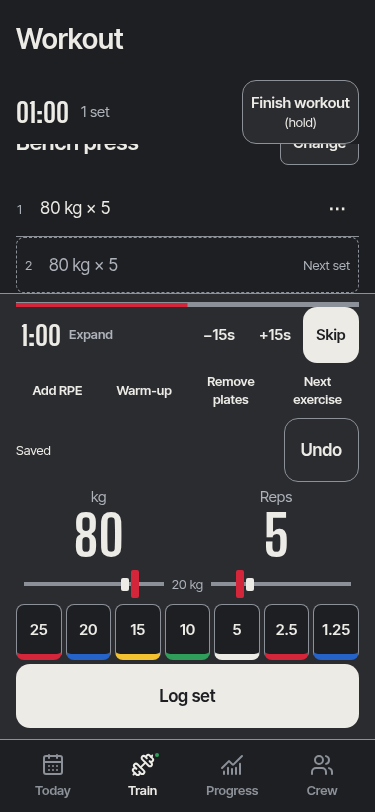
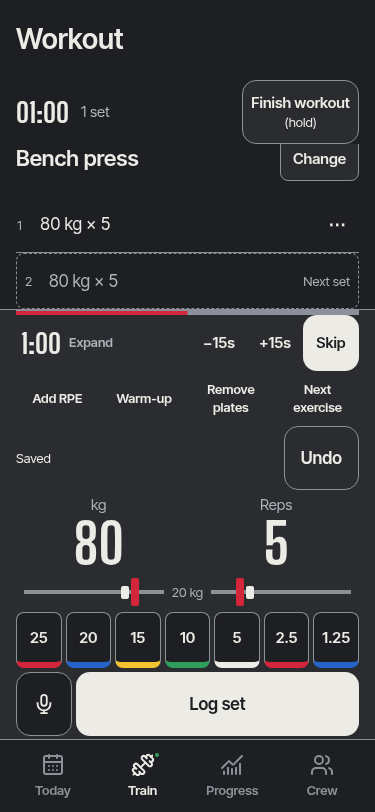
Y4: preserve accessible rest collapse and keep set rows reachable

diff --git a/src/features/timer/RestTimerOverlay.tsx b/src/features/timer/RestTimerOverlay.tsx
@@ -119,7 +119,7 @@ export function RestTimerOverlay({ reduceMotion, onSkipHold, nextSet }: {
     if (!current || current.id !== event.pointerId) return;
     const delta = current.last - current.y;
     if (!open && delta <= -40) { swiped.current = true; expand(); }
-    else if (open && delta >= 80) close();
+    else if (open && delta >= 80) { swiped.current = true; close(); }
   };
 
   if (state.phase === 'idle' && !asleep) return null;
@@ -139,8 +139,8 @@ export function RestTimerOverlay({ reduceMotion, onSkipHold, nextSet }: {
           aria-label={fill(copy.x4TimerAction, { time: state.label, action: copy.x4TimerExpand })}
           aria-expanded={open} aria-haspopup="dialog" onPointerDown={begin} onPointerMove={move} onPointerUp={end}
           onPointerCancel={() => { swipe.current = null; }} onLostPointerCapture={() => { swipe.current = null; }}
-          onClick={() => { if (!swiped.current) expand(); swiped.current = false; }}>
-          {!open && readout}<span className="rest-timer__expand">{copy.y4Expand}</span>
+          onClick={(event) => { if (event.detail === 0 || !swiped.current) expand(); swiped.current = false; }}>
+          {!open && readout}{' '}<span className="rest-timer__expand">{copy.y4Expand}</span>
         </Button>
         <div className="rest-timer__controls">
           {controls}
@@ -153,8 +153,11 @@ export function RestTimerOverlay({ reduceMotion, onSkipHold, nextSet }: {
       {pulse && !reduce && <div className="rest-timer__pulse" data-testid="rest-pulse" aria-hidden="true" />}
       <MotionReducedContext.Provider value={reduce}><Sheet open={open} onClose={close} title={copy.y4Rest}>
         <div className="rest-full">
-          <div className="rest-full__readout" onPointerDown={begin} onPointerMove={move} onPointerUp={end}
-            onPointerCancel={() => { swipe.current = null; }} onLostPointerCapture={() => { swipe.current = null; }}>{readout}</div>
+          <Button variant="ghost" className="rest-full__readout"
+            aria-label={fill(copy.x4TimerAction, { time: state.label, action: copy.x4TimerCollapse })} aria-expanded
+            onClick={(event) => { if (event.detail === 0 || !swiped.current) close(); swiped.current = false; }}
+            onPointerDown={begin} onPointerMove={move} onPointerUp={end}
+            onPointerCancel={() => { swipe.current = null; }} onLostPointerCapture={() => { swipe.current = null; }}>{readout}</Button>
           {state.phase === 'over' && <p className="rest-timer__next">{copy.y4NextSet}</p>}
           {nextSet && <div className="rest-full__ghost" aria-label={copy.y4NextSet}>
             <p>{copy.y4NextSet}</p><strong>{nextSet.exercise}</strong>

diff --git a/tests/unit/timer/restRitual.test.tsx b/tests/unit/timer/restRitual.test.tsx
@@ -49,7 +49,10 @@ it('shows the live next ghost set, traps focus, closes with Escape and restores 
   const close = within(dialog).getByRole('button', { name: copy.close });
   close.focus();
   fireEvent.keyDown(document, { key: 'Tab' });
-  expect(document.activeElement).toBe(within(dialog).getByRole('button', { name: copy.restMinus15 }));
+  expect(document.activeElement).toBe(within(dialog).getByRole('button', { name: fill(copy.x4TimerAction, { time: '2:00', action: copy.x4TimerCollapse }) }));
+  fireEvent.click(within(dialog).getByRole('button', { name: fill(copy.x4TimerAction, { time: '2:00', action: copy.x4TimerCollapse }) }));
+  expect(screen.queryByRole('dialog')).toBeNull();
+  fireEvent.click(expand);
   fireEvent.keyDown(document, { key: 'Escape' });
   expect(screen.queryByRole('dialog')).toBeNull();
   expect(document.activeElement).toBe(expand);
@@ -74,6 +77,9 @@ it('swipes up to expand and down to close; cancellation leaves the view unchange
   fireEvent.pointerMove(countdown, { clientY: 320 });
   fireEvent.pointerUp(countdown, { clientY: 320 });
   expect(screen.queryByRole('dialog')).toBeNull();
+  // Keyboard activation must work after a pointer swipe consumed its click.
+  fireEvent.click(bar, { detail: 0 });
+  expect(screen.getByRole('dialog')).toBeTruthy();
   vi.unstubAllGlobals();
 });
 

diff --git a/src/features/timer/restTimer.css b/src/features/timer/restTimer.css
@@ -4,7 +4,8 @@
 .rest-timer__bar { display: flex; flex-wrap: wrap; align-items: center; gap: 4px; }
 .rest-timer__readout { flex: 1; justify-content: flex-start; gap: 8px; min-width: 100px; min-height: 56px; padding: 4px; touch-action: none; user-select: none; }
 .rest-timer__chip { font: 600 1.75rem/1 var(--font-number); font-variant-numeric: tabular-nums; }
-.rest-timer__expand { font-size: .8125rem; color: var(--text-muted); }
+.rest-timer__readout .rest-timer__chip { white-space: nowrap; }
+.rest-timer__expand { flex-shrink: 0; white-space: nowrap; font-size: .8125rem; color: var(--text-muted); }
 .rest-timer__controls { display: flex; flex-wrap: wrap; gap: 0; min-width: 0; max-width: 100%; }
 .rest-timer__controls .ui-button { min-width: 56px; min-height: 56px; padding: 8px; font-size: .9375rem; }
 .rest-timer__loaded, .rest-timer__sleep { margin: 0; font-size: .8125rem; color: var(--text-muted); }
@@ -33,3 +34,5 @@
   .rest-timer__progress > div { transition: none; }
   .rest-timer__pulse { display: none; animation: none; }
 }
+/* The rest bar's larger targets use the dock's outer padding, keeping rows visible. */
+.session-controls:has(.rest-timer__bar) { padding-top: 0; padding-bottom: 4px; }
